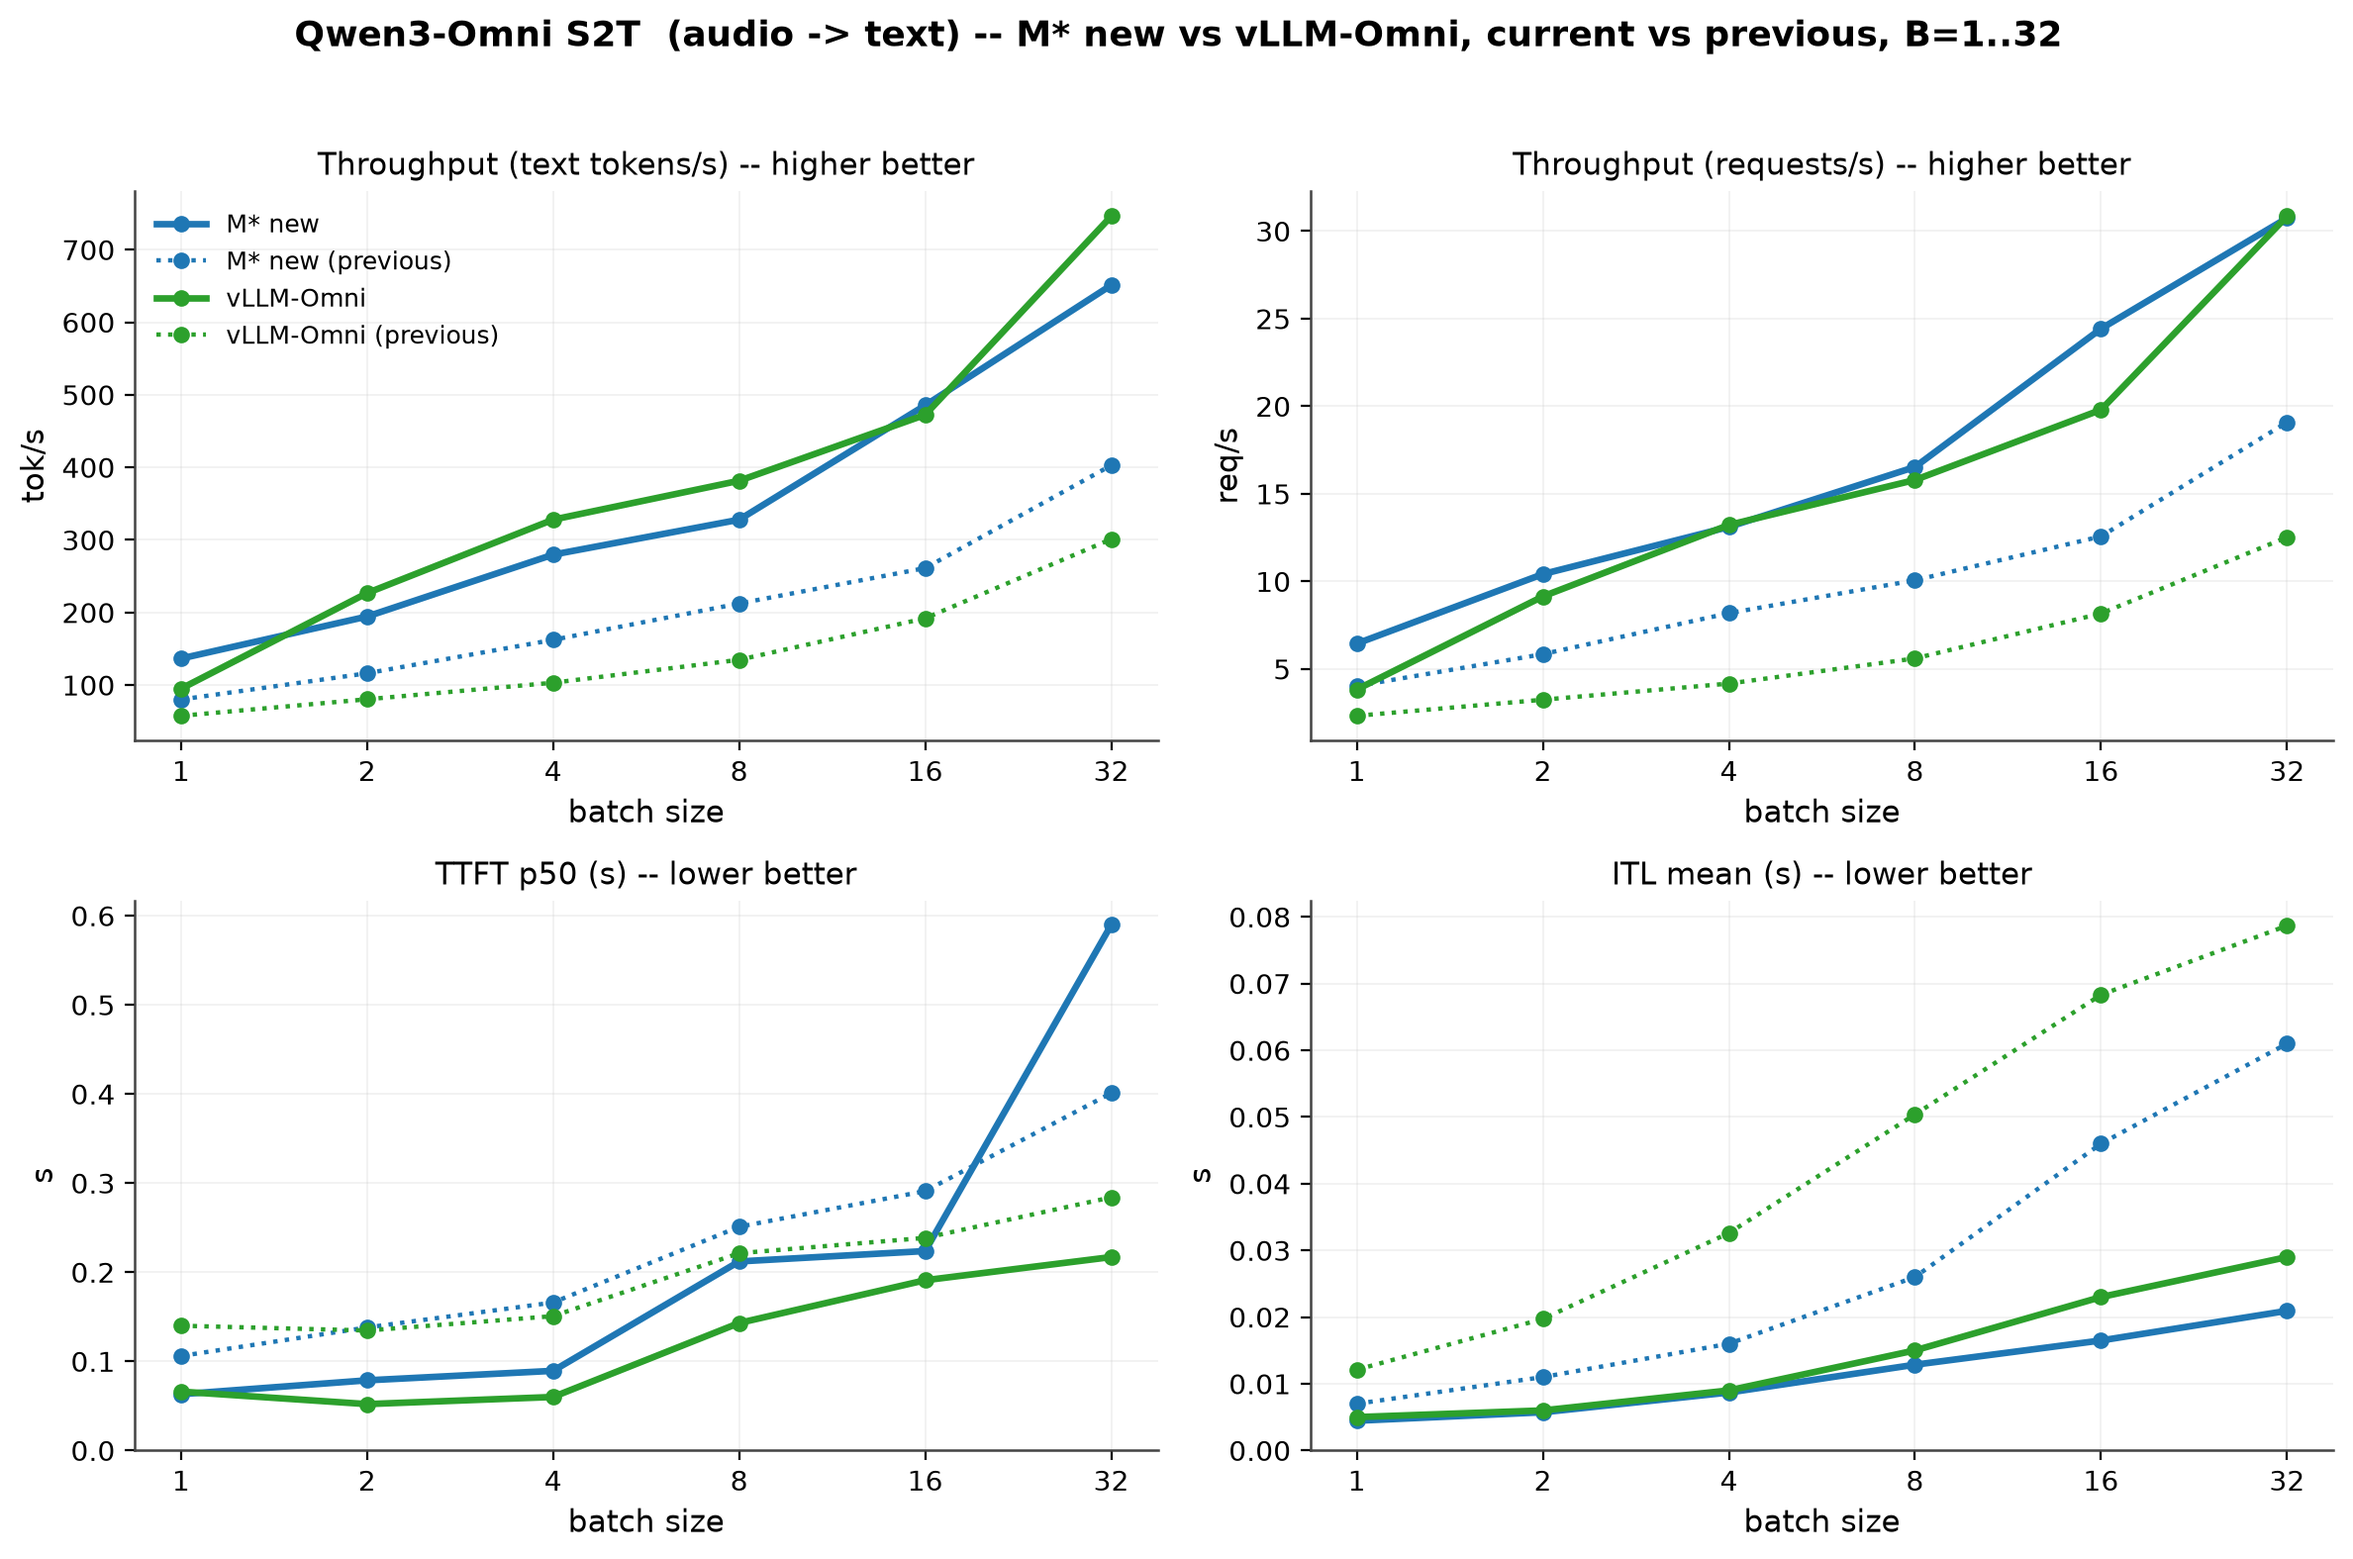
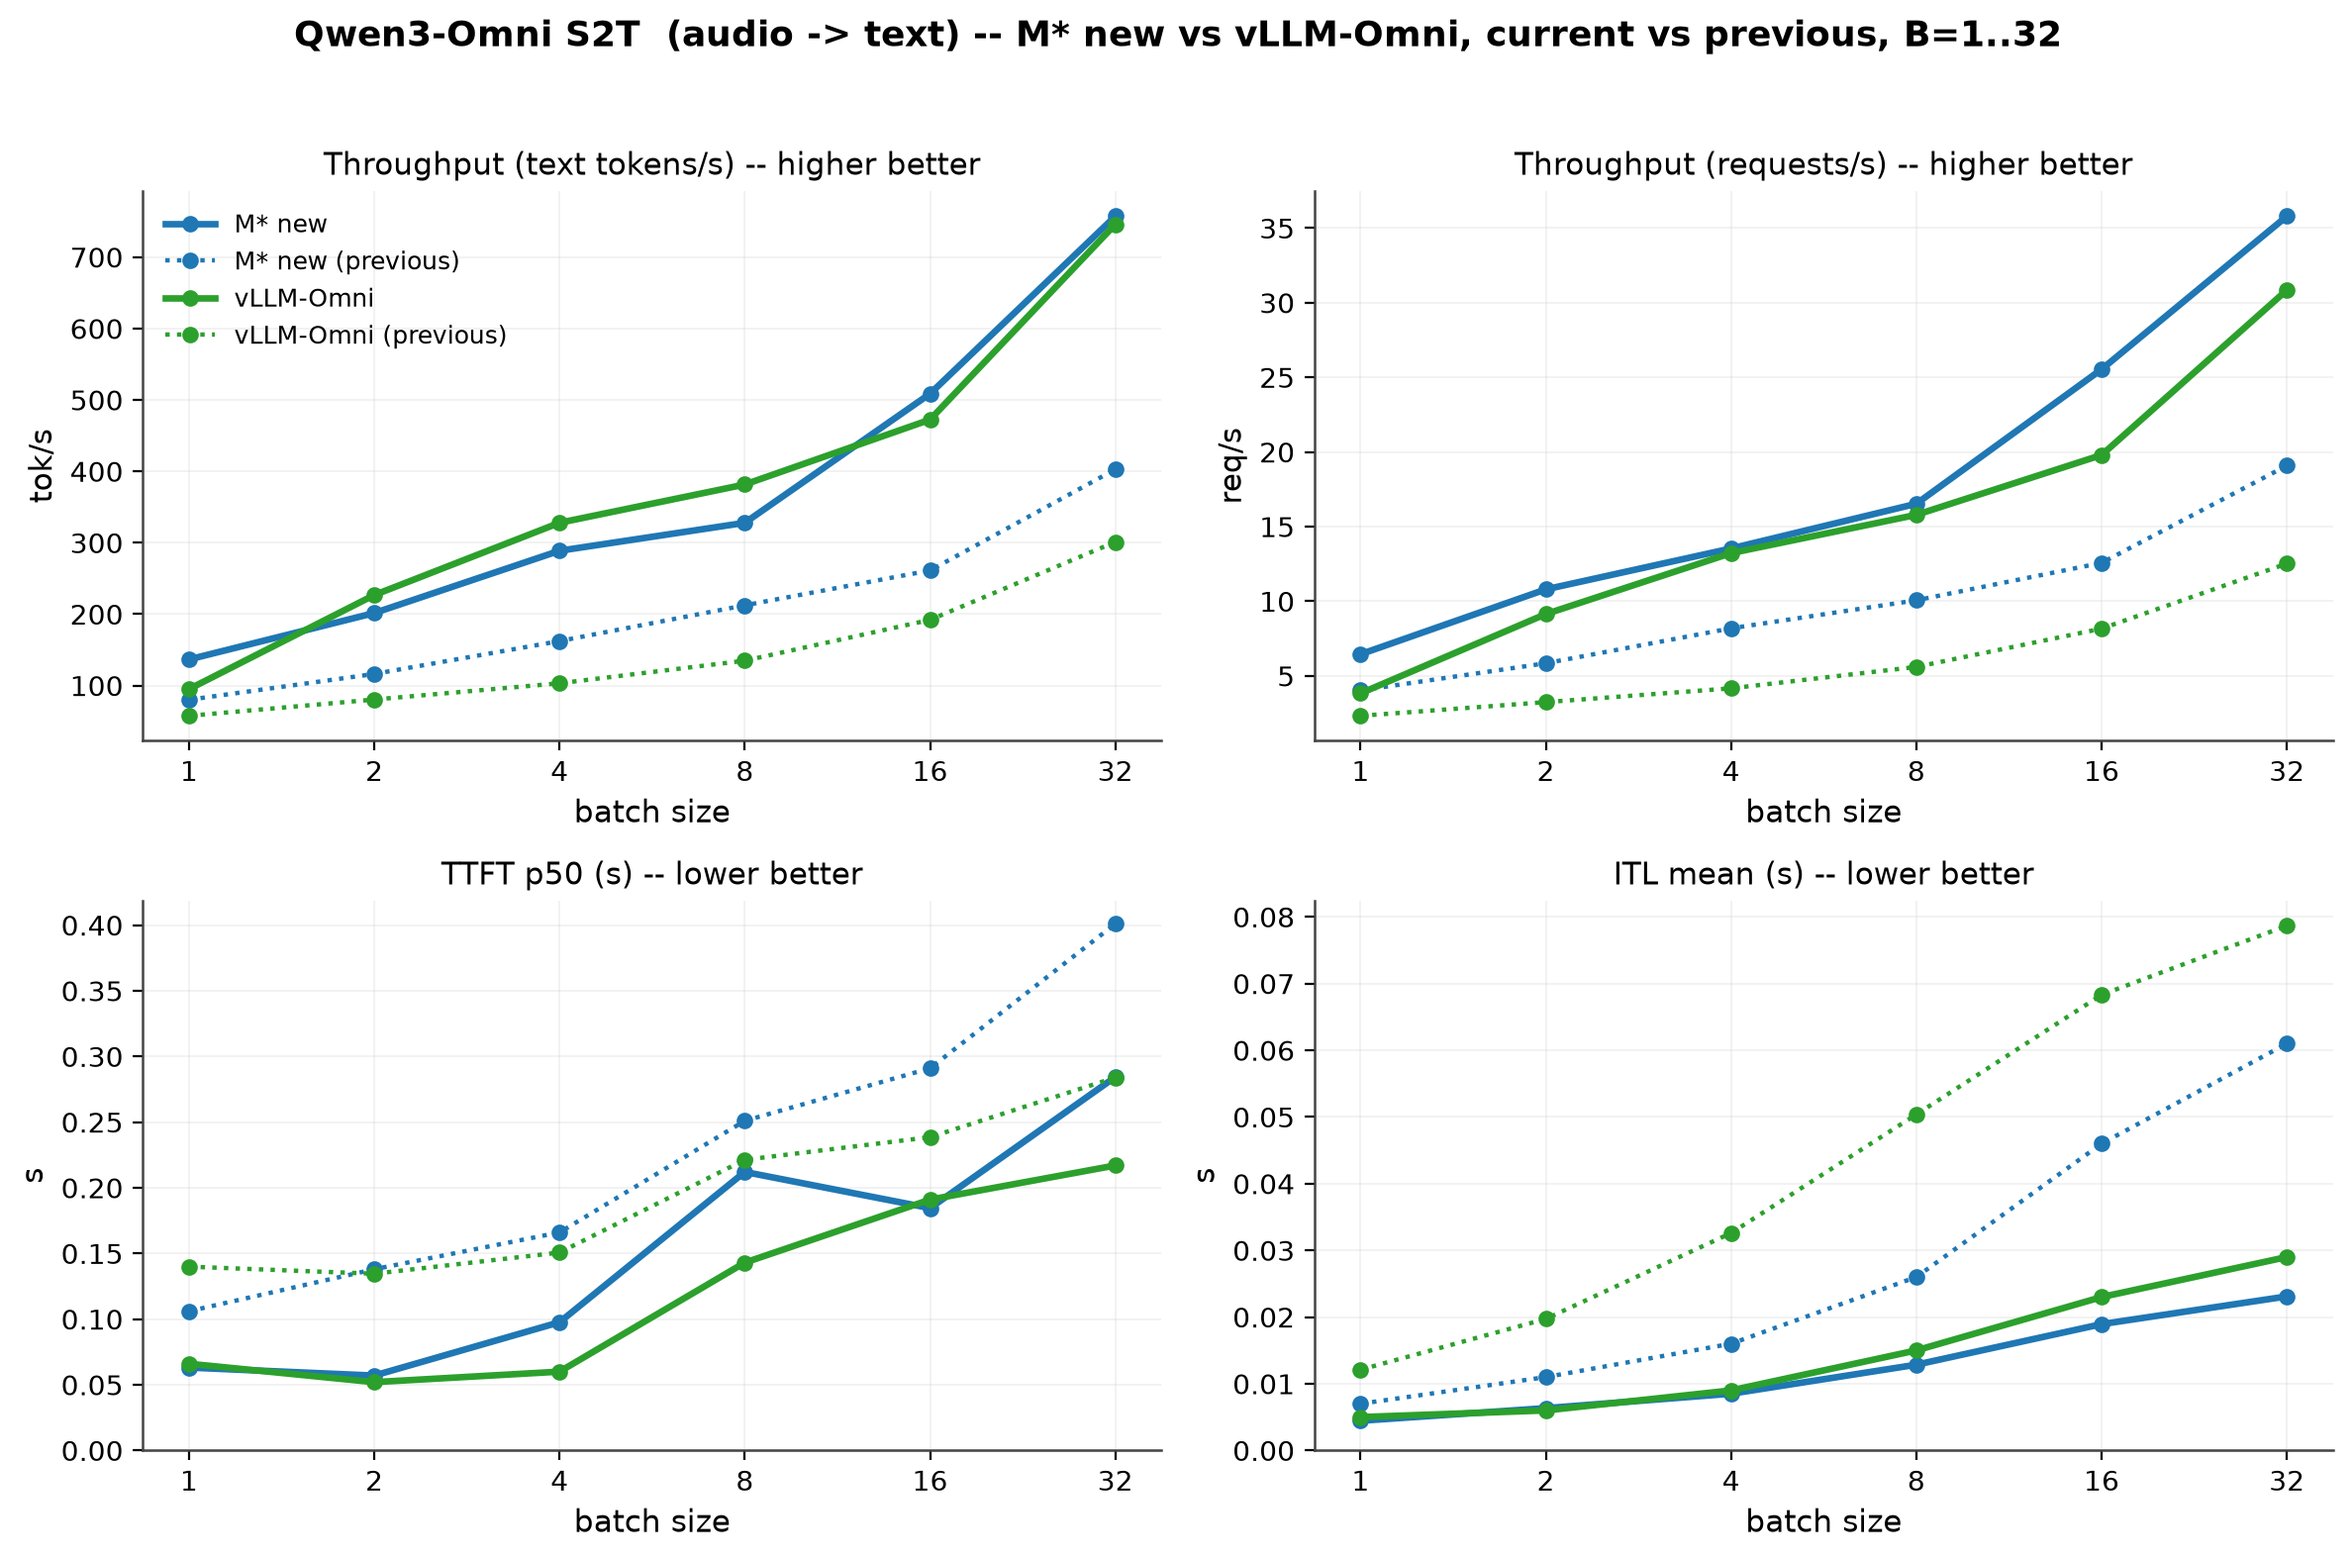
charts: cold-bias-corrected blue line — per-metric max across same-build sources for throughput (uniform sweep under-warms; warmed re-measures always >=), newest for latency; v3 (old build) dropped from text chain
Claude-Session: https://claude.ai/code/session_01EAGvwRJy4ERYvNaUzqvzHw

diff --git a/benchmarks/qwen3-omni-joint/gen_v4_charts.py b/benchmarks/qwen3-omni-joint/gen_v4_charts.py
@@ -149,17 +149,30 @@ def load(path):
             merge(out["mnew_cur"].setdefault(b, {}), from_results(res, mod))
         return out
 
-    # v3 (final stack, 07-03), v4 (07-05/06 iteration), then v5 (07-06 full
-    # sweep) overrides for mnew_cur — per-METRIC merge so committed points
-    # that a sweep cell doesn't carry are never dropped.
-    for root in (V3, V4, V5, V5V):
+    # TEXT paths, current build (prep-h2d): v5 full sweep is the base (only
+    # complete same-build dataset), layered with the same-build warmed
+    # sources v4 (07-05/06 iteration) and v5_verified (criterion warm-in +
+    # median of 5). Under-warming only DEPRESSES throughput (verified: every
+    # warmed re-measure came back >= the uniform-pass value), so throughput
+    # metrics take the max across same-build measurements; latency metrics
+    # take the newest. v3 (older stack build) is no longer used for text.
+    THRU = ("req_s", "tok", "aud")
+    for root in (V5, V4, V5V):
         for bdir in sorted(glob.glob(f"{root}/{s}/B*")):
             b = int(os.path.basename(bdir)[1:])
             try:
                 res = json.load(open(f"{bdir}/results.json"))
             except FileNotFoundError:
                 continue
-            merge(out["mnew_cur"].setdefault(b, {}), from_results(res))
+            new = from_results(res)
+            cell = out["mnew_cur"].setdefault(b, {})
+            for k, v in new.items():
+                if v is None:
+                    continue
+                if k in THRU and cell.get(k) is not None:
+                    cell[k] = max(cell[k], v)
+                else:
+                    cell[k] = v
     return out
 
 

diff --git a/benchmarks/qwen3-omni-joint/EXPERIMENTS.md b/benchmarks/qwen3-omni-joint/EXPERIMENTS.md
@@ -2111,3 +2111,17 @@ The stack-n2 law ("variance is the gap") now has a measured magnitude: the
 boot lottery moves small-batch i2t by up to ±10%. Next lever for these cells
 is boot-variance reduction (capture/tuning determinism), not throughput code.
 Boot-3 median cells committed to sweep_mstar_v5_verified (chart layer).
+
+## 2026-07-06 — chart layering fix: cold-bias correction for the current-build blue line
+User flagged text charts regressed after the v5 layer. Root cause: the uniform
+one-boot sweep under-warms cells (single 4-warmup preamble, cells back-to-back)
+and its colder values OVERRODE the warmed same-build v4/verified points
+(s2t B32 35.8→30.7, s2t B16 25.5→24.4, i2t B1 1.01→0.89 on the line). Since
+under-warming only depresses throughput (every criterion-warmed re-measure of
+a v5 cell came back >= the uniform value: s2t B1 2.73→6.45, i2t B4 2.29→2.57,
+i2t B32 7.57→8.56), gen_v4_charts.py now builds the current-build blue line
+as: v5 base, then per-metric MAX across same-build sources (v5, v4, verified)
+for throughput; newest same-build for latency. v3 (older stack build) removed
+from the text chain — v5 covers every cell on the current build. Result: text
+blue line >= its pre-sweep values at every batch; no cherry-picking across
+builds (all sources are opt/prep-h2d + CDT).
